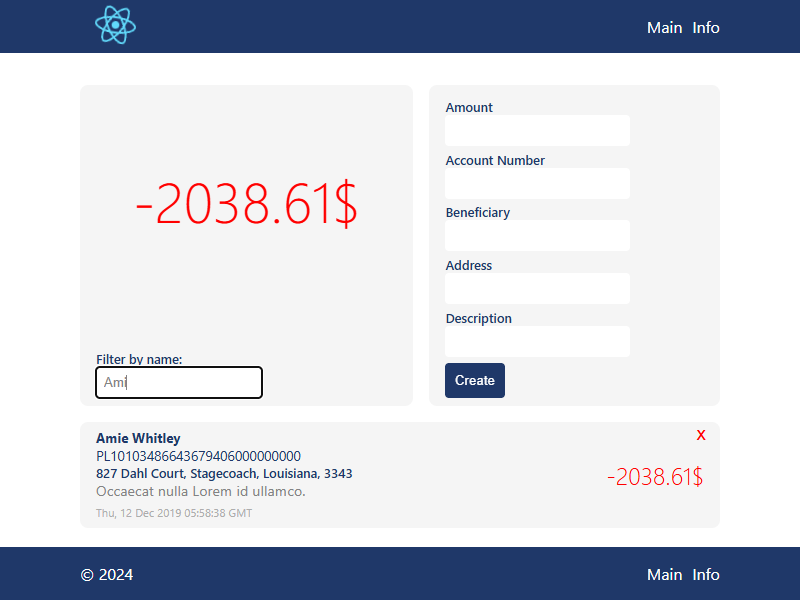
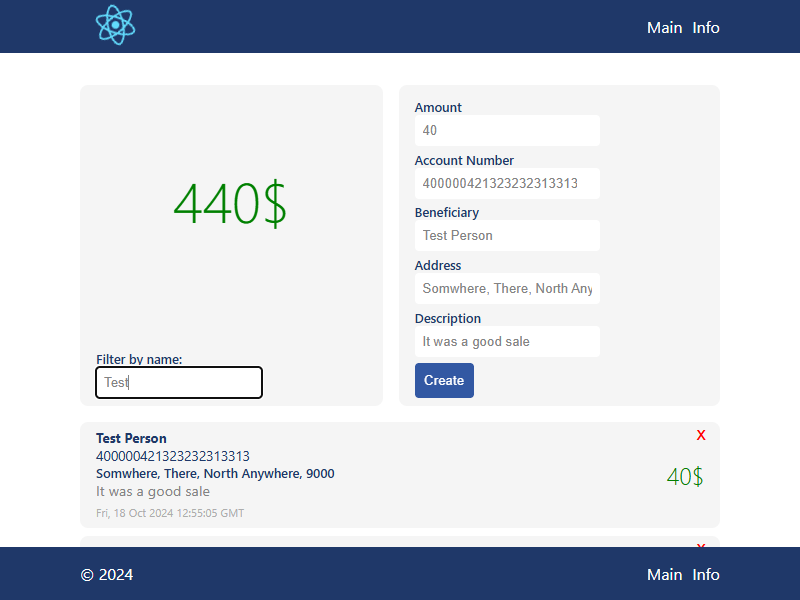
created e2e tests for form and filtering

diff --git a/src/__tests__/e2e.test.tsx b/src/__tests__/e2e.test.tsx
@@ -11,19 +11,41 @@ describe("Task Frontend", () => {
     await expect(page).toMatchTextContent("Filter by name:");
   });
 
-  it("should filter the list page", async () => {
-    // Making sure the list has loaded
-    await page.waitForSelector(".beneficiary");
+  it("should create transaction", async () => {
+    // Type into form boxes
+    await page.type(".amount-input", "40");
+    await page.type(".account-input", "400000421323232313313");
+    await page.type(".beneficiary-input", "Test Person");
+    await page.type(".address-input", "Somwhere, There, North Anywhere, 9000");
+    await page.type(".description-input", "It was a good sale");
 
-    // Type into search box
-    await page.type(".filter-input", "Ami");
+    const searchResultSelector = ".submit";
+    await page.waitForSelector(searchResultSelector);
+    await page.click(searchResultSelector);
+    await page.waitForNetworkIdle();
+    await page.waitForSelector("text/Test Person");
 
     // Find the search result
     const textSelector = await page.waitForSelector(".beneficiary");
     const fullTitle = await textSelector?.evaluate((el) => el.textContent);
 
     // Making sure our result is correct
-    await expect(fullTitle).toMatch("Amie Whitley");
+    await expect(fullTitle).toMatch("Test Person");
+  });
+
+  it("should filter the list page", async () => {
+    // Making sure the list has loaded
+    await page.waitForSelector(".beneficiary");
+
+    // Type into search box
+    await page.type(".filter-input", "Test");
+
+    // Find the search result
+    const textSelector = await page.waitForSelector(".beneficiary");
+    const fullTitle = await textSelector?.evaluate((el) => el.textContent);
+
+    // Making sure our result is correct
+    await expect(fullTitle).toMatch("Test Person");
 
     //screenshot good for debuging/visiual regression
     await page.screenshot({ path: "advanced-search-results.png" });

diff --git a/src/Components/TransactionForm/TransactionForm.tsx b/src/Components/TransactionForm/TransactionForm.tsx
@@ -31,7 +31,7 @@ export default function TransactionFrom({
       <Input name="beneficiary" label="Beneficiary" />
       <Input name="address" label="Address" />
       <Input name="description" label="Description" />
-      <input type="submit" value="Create" />
+      <input className="submit" type="submit" value="Create" />
     </form>
   );
 }
